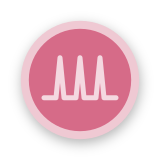
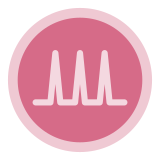
Change generator style

diff --git a/qml/MainDesktop.qml b/qml/MainDesktop.qml
@@ -23,6 +23,8 @@ import "qrc:/qml/controls"
 Item {
     id: root
 
+    property bool dragging: false
+
     state: "creation"
 
     Neuronify {
@@ -49,6 +51,11 @@ Item {
 
         color: "#6BAED6"
         z: 40
+
+        MouseArea {
+            anchors.fill: parent
+            hoverEnabled: true
+        }
 
         Image {
             id: logo
@@ -195,9 +202,17 @@ Item {
             //            bottomMargin: 120
         }
 
-        width: 240 + 32
+        width: 300 + 32
         height: itemColumn.height
         z: 20
+
+        MouseArea {
+            anchors.fill: parent
+            hoverEnabled: true
+            onWheel: {
+                // NOTE: necessary to capture wheel events
+            }
+        }
 
         ListModel {
             id: categories
@@ -260,6 +275,7 @@ Item {
                 active: itemColumn.height > itemFlickable.height
             }
             contentHeight: itemColumn.height
+//            interactive: false
 
             Column {
                 id: itemColumn
@@ -274,10 +290,6 @@ Item {
                     currentIndex = 0
                 }
 
-    //            onCurrentIndexChanged: {
-    //                itemModelLoader.source = categories.get(currentIndex).listSource
-    //            }
-
                 Repeater {
                     model: categories
                     Column {
@@ -290,7 +302,6 @@ Item {
                             anchors {
                                 left: parent.left
                                 right: parent.right
-    //                            verticalCenter: parent.verticalCenter
                                 margins: 16
                             }
                             font.pixelSize: 16
@@ -310,14 +321,11 @@ Item {
                             property real itemWidth: (width - spacing * (columns - 1)) / columns
 
                             anchors {
-    //                            bottom: parent.bottom
-    //                            top: parent.top
                                 left: parent.left
                                 right: parent.right
                                 margins: 32
                             }
 
-    //                        flow: Flow.TopToBottom
                             spacing: 8
 
                             Loader {
@@ -336,10 +344,6 @@ Item {
 //                                    width: itemListView.itemWidth
                                     width: itemListView.itemWidth
 
-                                    Component.onCompleted: {
-                                        console.log("Width", width)
-                                    }
-
                                     parentWhenDragging: root
 
                                     name: model.name
@@ -348,30 +352,35 @@ Item {
                                     imageSource: model.imageSource
 
                                     onDragActiveChanged: {
-                                        console.log("Dragging")
                                         if(dragActive) {
-                                            itemMenu.state = "dragging"
+                                            root.dragging = true
                                         } else {
-                                            itemMenu.state = ""
+                                            root.dragging = false
                                         }
+                                        showInfoPanelTimer.stop()
                                     }
 
                                     MouseArea {
                                         anchors.fill: parent
                                         hoverEnabled: true
+                                        acceptedButtons: Qt.NoButton
+                                        propagateComposedEvents: true
                                         onEntered: {
-                                            infoPanel.state = "revealed"
                                             infoPanel.selectedItem = creationItem
+                                            hideInfoPanelTimer.stop()
+                                            showInfoPanelTimer.restart()
                                         }
                                         onExited: {
-                                            hideInfoPanelTimer.start()
+                                            hideInfoPanelTimer.restart()
+                                            showInfoPanelTimer.stop()
                                         }
-                                        Timer {
-                                            id: hideInfoPanelTimer
-                                            interval: 2000
-                                            onTriggered: {
-                                                infoPanel.state = "hidden"
-                                            }
+                                    }
+
+                                    Timer {
+                                        id: showInfoPanelTimer
+                                        interval: 400
+                                        onTriggered: {
+                                            infoPanel.state = "revealed"
                                         }
                                     }
                                 }
@@ -385,6 +394,7 @@ Item {
         states: [
             State {
                 name: "dragging"
+                when: root.dragging
                 PropertyChanges {
                     target: itemMenu
                     opacity: 0.0
@@ -424,6 +434,8 @@ Item {
             }
         }
 
+        state: "hidden"
+
         width: 240
         height: infoColumn.height + infoColumn.anchors.margins * 2
 
@@ -456,6 +468,7 @@ Item {
                 }
                 wrapMode: Text.WrapAtWordBoundaryOrAnywhere
                 font.pixelSize: 18
+                color: "#676767"
                 text: infoPanel.selectedItem ? infoPanel.selectedItem.name : "Nothing selected"
             }
             Text {
@@ -470,15 +483,47 @@ Item {
             }
         }
 
+        Timer {
+            id: hideInfoPanelTimer
+            interval: 1000
+            onTriggered: {
+                infoPanel.state = "hidden"
+            }
+        }
+
         states: [
             State {
                 name: "hidden"
                 PropertyChanges {
-
+                    target: infoPanel; anchors.leftMargin: -width
                 }
             },
             State {
                 name: "revealed"
+            },
+            State {
+                name: "dragging"
+                extend: "hidden"
+                when: root.dragging
+                onCompleted: infoPanel.state = "hidden"
+                PropertyChanges {
+                    target: infoPanel
+                    opacity: 0.0
+                }
+            }
+        ]
+
+        transitions: [
+            Transition {
+                NumberAnimation {
+                    properties: "anchors.leftMargin"
+                    duration: 800
+                    easing.type: Easing.InOutQuad
+                }
+                NumberAnimation {
+                    properties: "opacity"
+                    duration: 200
+                }
             }
         ]
     }
@@ -486,7 +531,8 @@ Item {
     states: [
         State {
             name: "view"
-            PropertyChanges { target: itemMenu; anchors.leftMargin: -width }
+            PropertyChanges { target: itemMenu; anchors.leftMargin: -itemMenu.width }
+            PropertyChanges { target: infoPanel; state: "hidden" }
         },
         State {
             name: "creation"
@@ -496,6 +542,7 @@ Item {
         },
         State {
             name: "community"
+            extend: "view"
             PropertyChanges { target: leftMenuShadow; opacity: 0.0 }
             PropertyChanges { target: communityBackground; width: parent.width }
             PropertyChanges { target: communityBackground; radius: 0 }
@@ -510,8 +557,8 @@ Item {
     transitions: [
         Transition {
             animations: [
+                animateCreation,
                 animateLeftMenu,
-                animateCreation
             ]
         },
         Transition {
@@ -559,7 +606,7 @@ Item {
         id: animateCreation
         NumberAnimation {
             properties: "anchors.leftMargin"
-            duration: 600
+            duration: 400
             easing.type: Easing.InOutQuad
         }
         ColorAnimation {

diff --git a/qml/hud/CreationItem.qml b/qml/hud/CreationItem.qml
@@ -1,5 +1,6 @@
 import QtQuick 2.0
 import QtQuick.Controls 2.1
+import QtGraphicalEffects 1.0
 import "qrc:/qml/style"
 
 Item {
@@ -35,7 +36,10 @@ Item {
             height: width
 
             drag.target: creationControl
-//            drag.threshold: 0
+
+            onClicked: {
+                ToolTip.show("Drag and drop onto workspace", 2400)
+            }
 
             onReleased: {
                 creationControl.Drag.drop()
@@ -49,7 +53,7 @@ Item {
                 anchors.horizontalCenter: parent.horizontalCenter
                 anchors.verticalCenter: parent.verticalCenter
 
-                width: mouseArea.width + 16
+                width: mouseArea.width
                 height: width
 
                 Drag.hotSpot.x: 32
@@ -68,12 +72,26 @@ Item {
                 }
 
                 Image {
+                    id: image
+                    visible: false
                     anchors.fill: parent
                     source: imageSource
                     fillMode: Image.PreserveAspectFit
                     antialiasing: true
                     smooth: true
                     asynchronous: true
+                }
+
+                DropShadow {
+                    anchors.fill: image
+                    source: image
+                    samples: 17
+                    radius: 8
+                    horizontalOffset: 1
+                    verticalOffset: 4
+                    color: Qt.hsla(0.0, 0.0, 0.0, 0.2)
+                    smooth: true
+                    antialiasing: true
                 }
             }
 

diff --git a/qml/neurons/Neuron.qml b/qml/neurons/Neuron.qml
@@ -7,6 +7,7 @@ import "../paths"
 import Neuronify 1.0
 import QtQuick.Controls 1.3
 import QtQuick.Particles 2.0
+import QtGraphicalEffects 1.0
 
 /*!
 \qmltype Neuron
@@ -39,9 +40,23 @@ Node {
         fireAnimation.restart()
     }
 
+    DropShadow {
+        visible: !inhibitory
+        anchors.fill: image
+        source: image
+        smooth: true
+        antialiasing: true
+        samples: 17
+        radius: 8
+        horizontalOffset: 1
+        verticalOffset: 4
+        color: Qt.hsla(0.0, 0.0, 0.0, 0.2)
+    }
+
     Image {
+        id: image
         anchors.centerIn: parent
-        width: 96
+        width: 72
         height: width
         source: inhibitory ? inhibitoryImageSource : imageSource
         fillMode: Image.PreserveAspectFit
